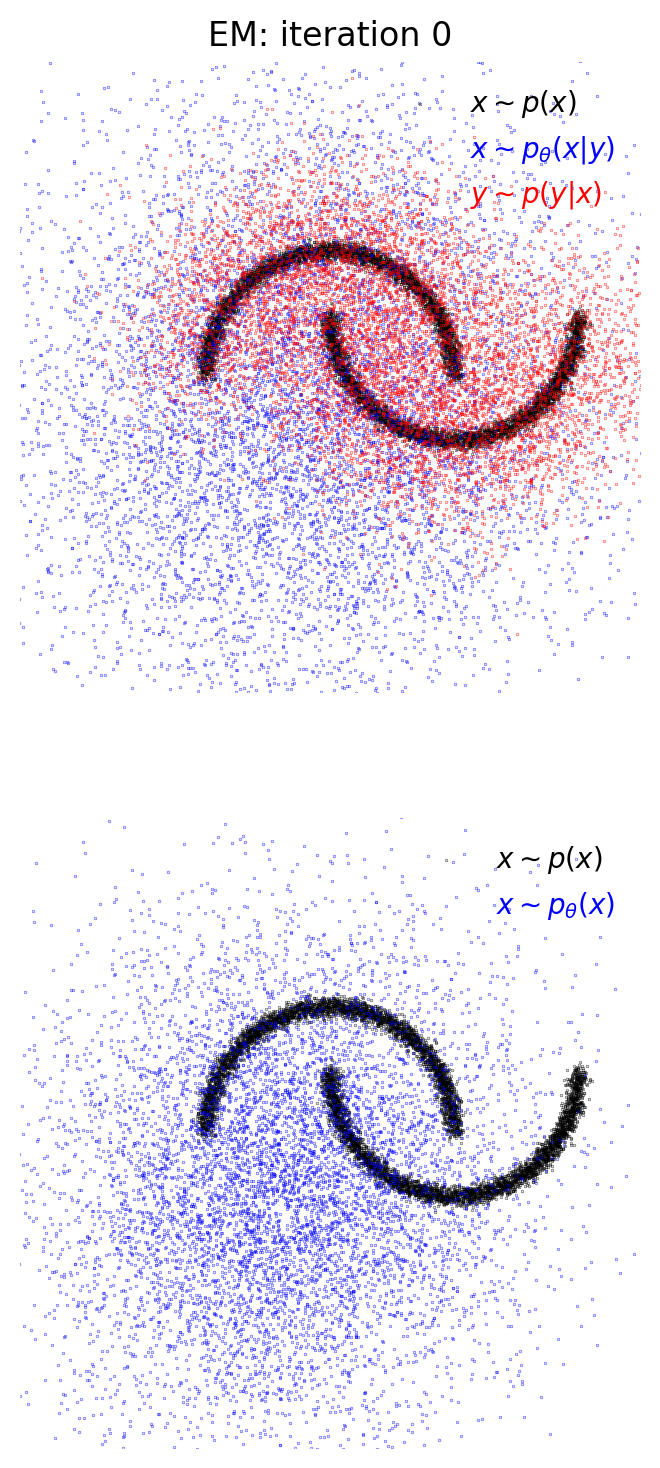
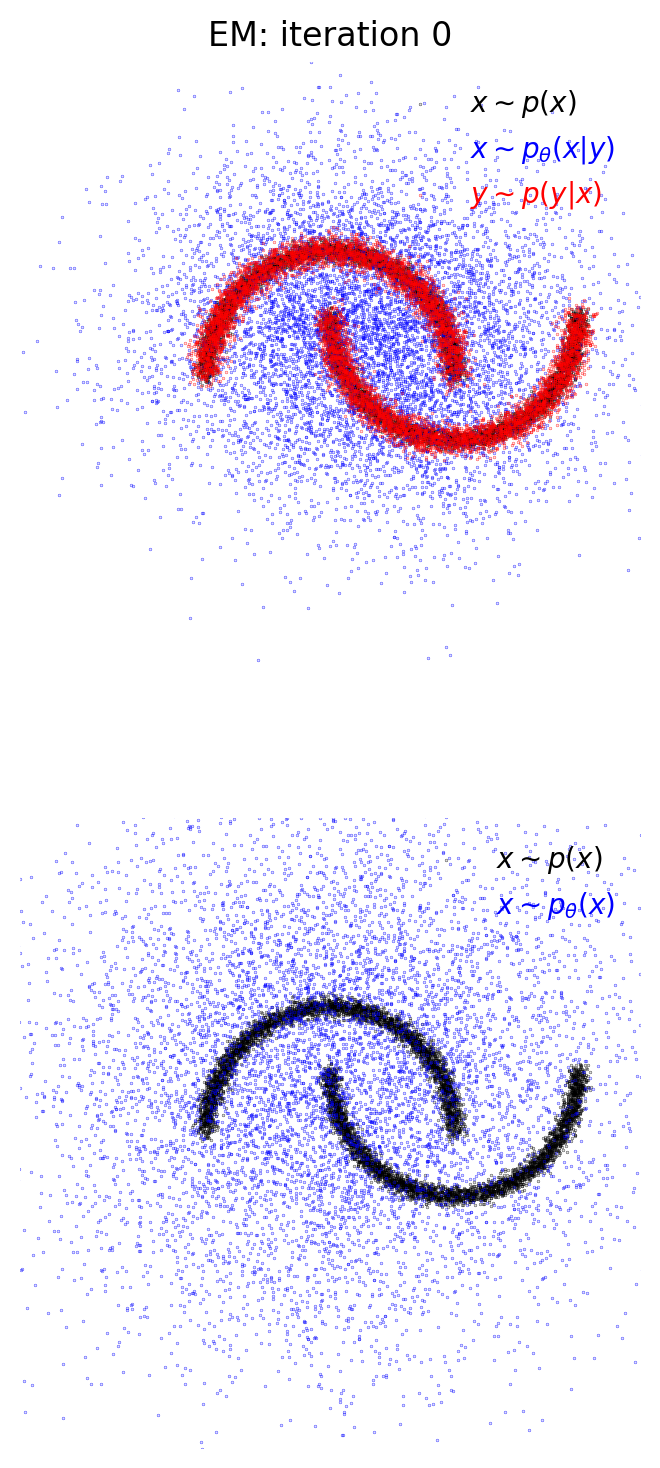
working roughly

diff --git a/rf/main.py b/rf/main.py
@@ -171,10 +171,10 @@ if __name__ == "__main__":
     time_embedding_dim   = 64
 
     # Data
-    dataset              = "blob"
+    dataset              = "moons"
     data_dim             = 2
     n_data               = 100_000
-    sigma_y              = 0.1 
+    sigma_y              = 0.05
     cov_y                = jnp.eye(data_dim) * jnp.square(sigma_y)
 
     assert dataset in ["gmm", "moons", "blob", "double-blob"]
